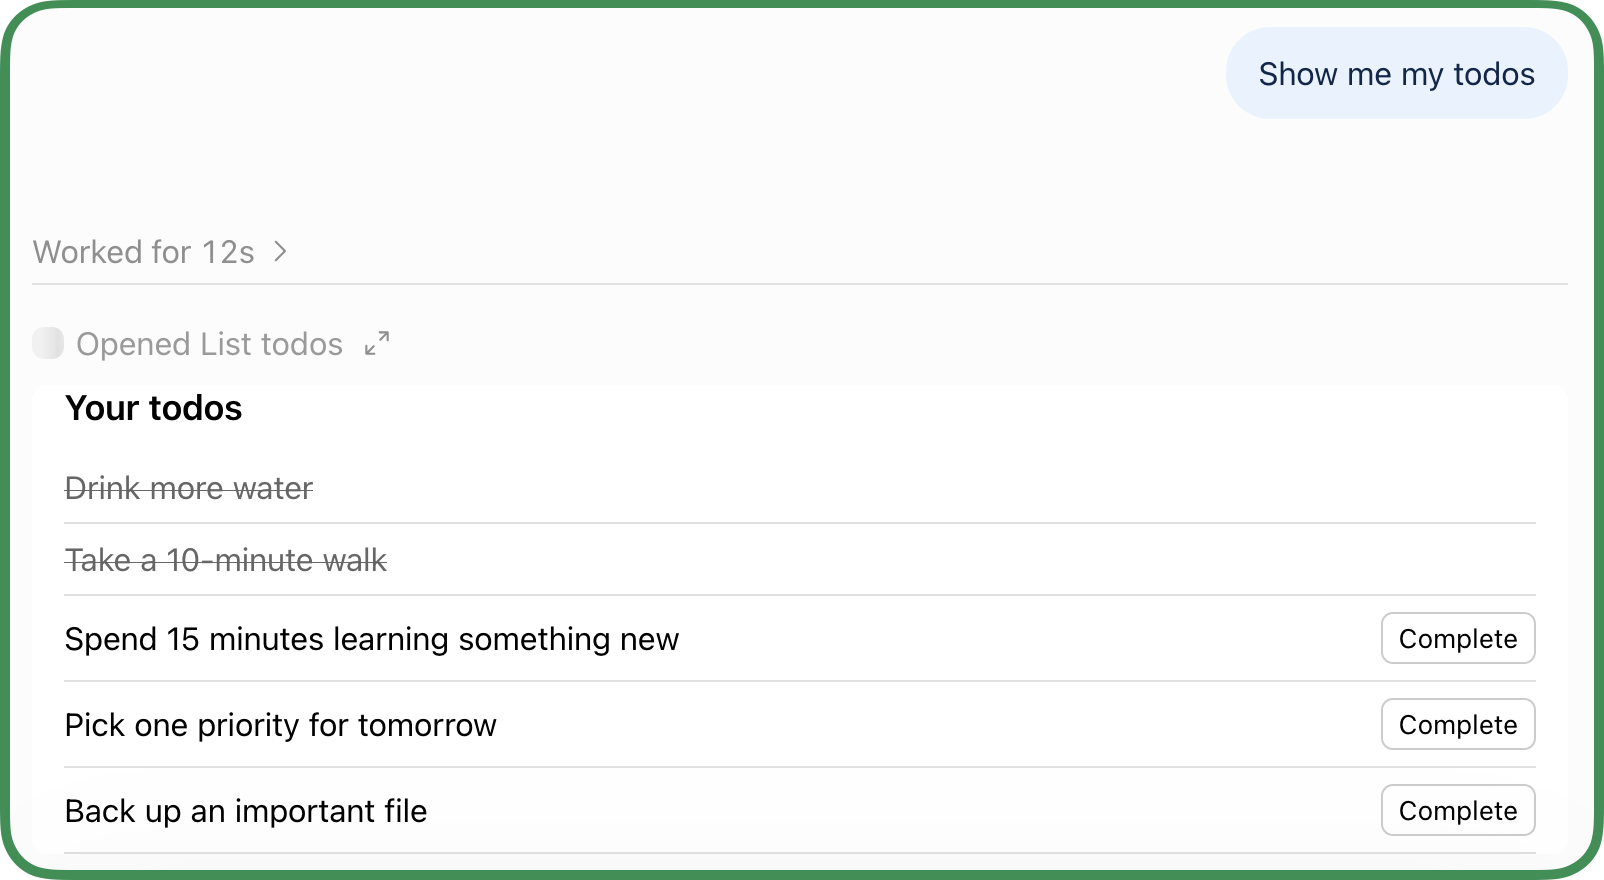
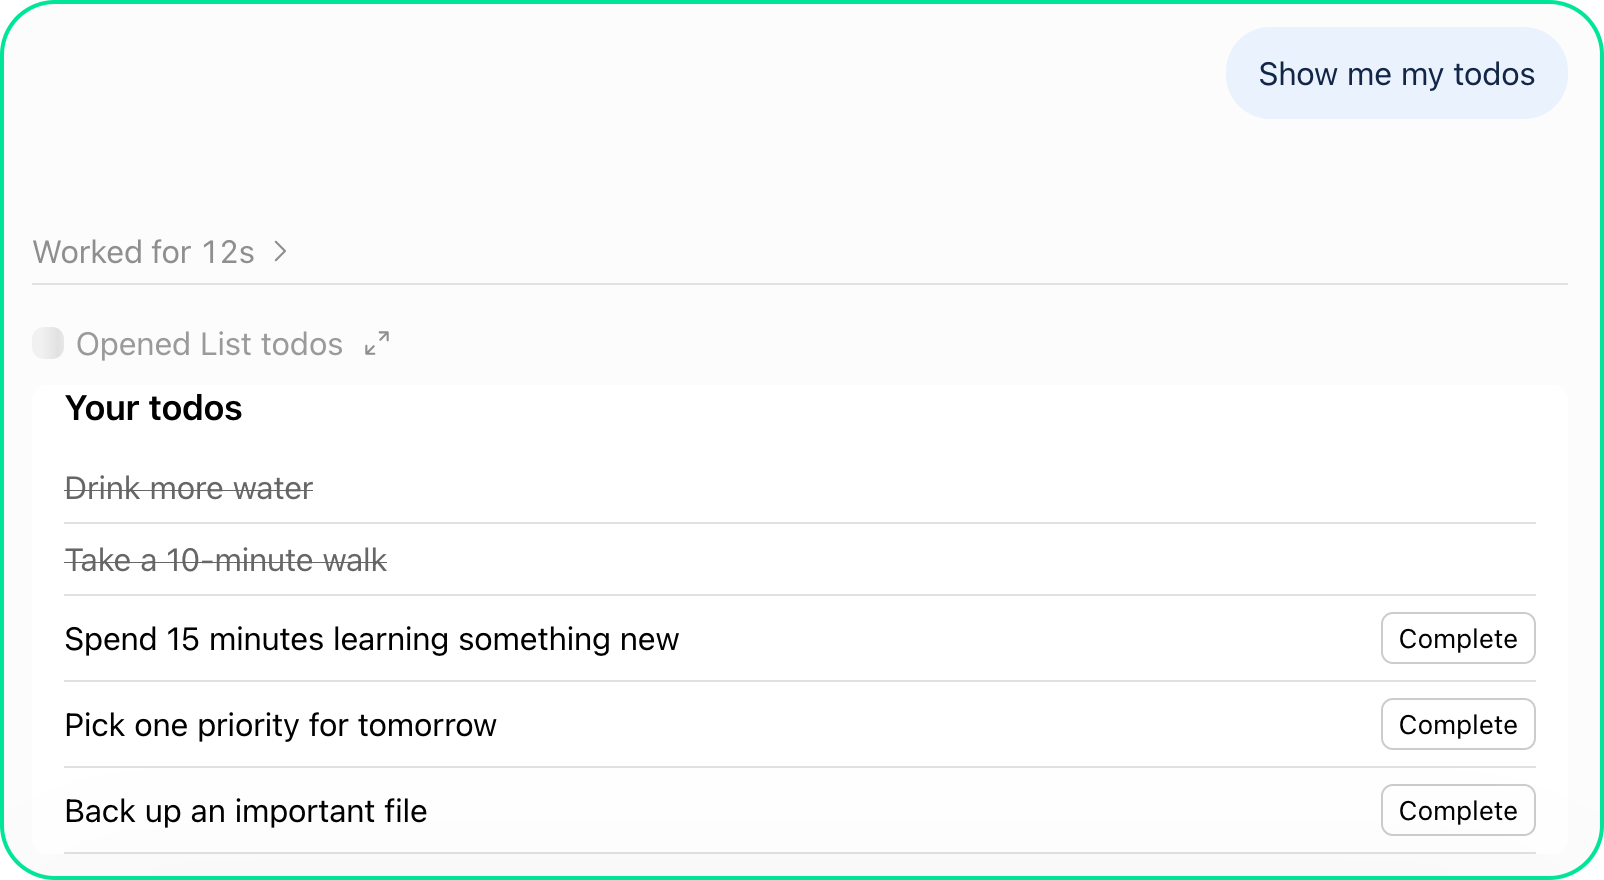
docs: add an agent prompt to the MCP server guide and refresh its screenshot

Changed region(s): [[0.0, 0.0, 1.0, 1.0]]

diff --git a/src/constants/static-md-manifest.js b/src/constants/static-md-manifest.js
@@ -79,6 +79,7 @@ export const STATIC_MD_PATHS = [
   '/prompts/laravel-prompt.md',
   '/prompts/llm-proxy-neon-functions-prompt.md',
   '/prompts/mastra-upstash-box-neon-prompt.md',
+  '/prompts/mcp-server-on-neon-functions-prompt.md',
   '/prompts/micronaut-kotlin-prompt.md',
   '/prompts/neon-api-prompt.md',
   '/prompts/neon-backend.md',

diff --git a/public/prompts/mcp-server-on-neon-functions-prompt.md b/public/prompts/mcp-server-on-neon-functions-prompt.md
@@ -1,0 +1,52 @@
+I want to give my app an MCP server that my customers connect from Claude, Cursor, or ChatGPT. Each customer signs in with their existing account, and every tool reads and writes only that customer's rows. Build it on Neon: the MCP server runs on Neon Functions, Managed Better Auth is the OAuth authorization server, and my app hosts the sign-in and consent pages.
+
+Use this guide as the reference:
+https://neon.com/docs/compute/functions/mcp-server.md
+
+Supporting docs:
+
+- OAuth provider (page requirements, CIMD, token verification): https://neon.com/docs/auth/guides/plugins/oauth-provider.md
+- `@neon/oauth` SDK reference: https://github.com/neondatabase/neon-pkgs/tree/main/packages/oauth
+- Managed Better Auth with Next.js: https://neon.com/docs/auth/quick-start/nextjs-api-only.md
+- Trusted domains: https://neon.com/docs/auth/guides/configure-domains.md
+- Branching authentication: https://neon.com/docs/auth/branching-authentication.md
+- CLI references: https://neon.com/docs/cli/functions.md and https://neon.com/docs/cli/neon-auth.md
+
+Use these libraries:
+
+- MCP server (Neon Function): `@neon/oauth` 0.3.0 or later (`createMcpAuth` from `@neon/oauth/mcp`, `honoMcp` from `@neon/oauth/mcp/hono`), `@modelcontextprotocol/sdk` 1.25.0 or later (`McpServer`, `WebStandardStreamableHTTPServerTransport`), `hono`, `pg` with `attachDatabasePool` from `@neon/functions`, and `zod`.
+- Sign-in and consent pages: `@neon/auth` 0.8.0 or later (`oauth2.continue`, `oauth2.publicClient`, `oauth2.consent`).
+- `@neon/config` for `neon.ts`.
+
+Before writing code:
+
+1. Inspect my project. If I don't have an app yet, create a Next.js 16 or later app with `npx create-next-app@latest`. If my app isn't Next.js, build the pages in my framework and follow the guide's "What your sign-in and consent pages must do" list.
+2. Check that the Neon CLI is authenticated with `neon me`. If it isn't, run `neon login` and wait for me to finish signing in.
+3. Install the agent skills: `neon skills -s neon -s neon-functions -s neon-auth -y`. Where a skill and the guide differ, follow the guide. In particular, don't declare the function in `neon.ts`.
+4. Run `neon link`, then `neon checkout --create <branch>` before any other Neon command, so all work happens on a development branch, not production.
+5. Ask only what you need: which data and tools the server should expose, which MCP clients I care about, where my app is deployed (it needs a public HTTPS origin), and whether I want the optional MCP Apps widget for ChatGPT.
+6. Propose a concise plan and wait for my confirmation before making significant changes.
+
+Follow these rules from the guide:
+
+- Enable Managed Better Auth with `auth: true` in `neon.ts` and `neon deploy`, as in the guide.
+- Protect every route except `/` and the sign-in and sign-up pages, so the consent page always has a session. Block framing of the auth pages with a `frame-ancestors 'none'` header in `next.config.ts` `headers()`.
+- Take the user ID only from the verified token's `sub`, and filter every query by it. Never take a user ID from tool input.
+- Build a new `McpServer` per request so the tools close over `sub`. Keep the `pg` pool at module scope.
+- `MCP_RESOURCE` must be the function's own `/mcp` URL. Choose the function slug carefully, because it can't change after the first deploy. Deploy once with `neon functions deploy <slug> --src <dir>` to get the URL, then deploy again with the same command plus `--env MCP_RESOURCE=<url>`. Until then, a new function returns `502`, and a function inherited from the parent branch serves the parent's `MCP_RESOURCE`. A redeploy can take a few minutes to serve, so poll the protected resource metadata instead of assuming.
+- Add my app's origin as a trusted domain, then enable the OAuth server with `neon neon-auth config oauth-server update --enabled` and `--login-page`, `--consent-page`, `--mcp-resource`, and `--mcp-client-id-metadata-documents`.
+- On the sign-in page, resume with `oauth2.continue` only when the URL has `client_id` and `response_type`.
+- On the consent page, read `window.location.search` in an effect, not during render.
+- On a child branch, point both `MCP_RESOURCE` and `--mcp-resource` at that branch's function URL.
+
+If I want the optional MCP Apps widget, follow the guide's "Render todos in chat with MCP Apps" section and https://modelcontextprotocol.io/extensions/apps/overview:
+
+- Put the widget HTML in a TypeScript module so `neon functions deploy` bundles it. Don't read a sibling `.html` file with `readFileSync`.
+- Register the UI as two resources: an MCP Apps resource (`text/html;profile=mcp-app`) and the ChatGPT skybridge variant (`text/html+skybridge`).
+- Point the tool at the UI with `_meta` (`ui.resourceUri`, `ui/resourceUri`, `openai/outputTemplate`, `openai/widgetAccessible`), and return a short text summary plus `structuredContent`.
+- If the widget calls tools (for example a Complete button), fetch the list again after the call and re-render.
+- If the widget loads anything from another origin, declare those domains in the resource's `_meta.ui.csp`: https://developers.openai.com/plugins/build/chatgpt-ui#content-security-policy-csp
+
+After implementation, run the guide's "Verify the server" checks, show me how to connect my MCP clients, and test isolation with two users. If something fails, explain the likely cause and help me troubleshoot before making unrelated changes.
+
+Run Neon commands from the linked directory so they target the checked-out branch. If you pass `--project-id`, also pass `--branch`, or the command targets the default branch. When you need to inspect or query my database, use `neon psql` and pass the correct branch name. Never run destructive commands against my database (`DELETE`, `UPDATE`, `DROP`, `TRUNCATE`, and similar) without showing me the exact command and getting my approval. If `neon deploy` asks for `--allow-protected`, `--update-existing`, or `-y`, show me the changes it printed and ask me before re-running with any of them.

diff --git a/content/docs/compute/functions/mcp-server.md b/content/docs/compute/functions/mcp-server.md
@@ -15,6 +15,12 @@ The MCP server runs on [Neon Functions](/docs/compute/functions/overview). [Mana
 
 If you don't need per-user sign-in, start from the `mcp-postgres` [function template](/docs/compute/functions/templates) instead.
 
+<CopyPrompt
+  src="/prompts/mcp-server-on-neon-functions-prompt.md"
+  description="Use this prompt to build this with your AI agent."
+  buttonText="Copy prompt"
+/>
+
 ## How it works
 
 ```mermaid
